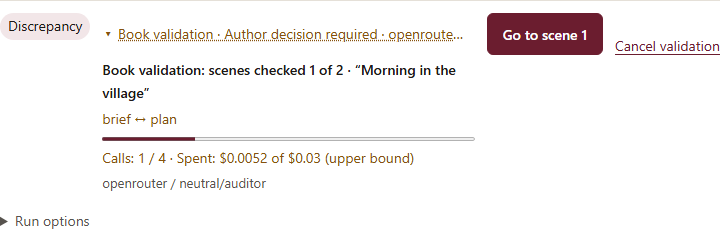
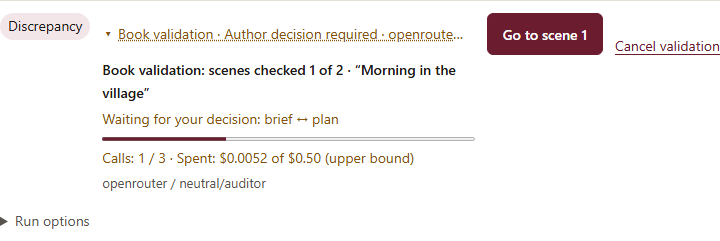
fix(validation): зупинена перевірка чекає автора й завершується без згоди
Відгук власника після #296: перевірка сцени зупинилася на розбіжності
завдання, прозу затверджено вручну, а «Продовжити» лишалася активною з
діалогом «До 0 викликів», і смуга стояла на 1 / 2.

- Перегляд продовження audit має awaiting_decision за правилом execute;
  «Продовжити» неактивна з причиною, рядок пише «Чекає вашого рішення» /
  «Чекає вашої дії».
- Без зв'язків до перевірки кнопка «Завершити перевірку» завершує запуск
  без діалогу згоди.
- Прогрес needs_review рахує лише залишок (done + виклики перегляду
  продовження), збережений план не змінюється.

Документація: SPEC.MD (VALID-RUN-S13, прогрес і продовження, обмеження),
traceability, manual.md, сайт uk/en workspace і troubleshooting (пари
підтверджено check_site --rehash), знімок run-progress-desktop uk/en.

diff --git a/src/storygen/web/static/runs.js b/src/storygen/web/static/runs.js
@@ -9,7 +9,7 @@ import {api,json,notice} from './api.js';
 import {state,refresh,loadBuffer,textEditor} from './editor.js';
 import {registerWorkspaceCommand} from './workspace-commands.js';
 import {assertReadyDispatch} from './workspace-state.js';
-import {operationReason,confirmationText,runKind,controlReason,materialReason,editorLoopOperation} from './run-readiness.js';
+import {operationReason,confirmationText,runKind,controlReason,materialReason,editorLoopOperation,auditResumeReason,auditFinishable} from './run-readiness.js';
 // STORE-FOOTER: the Store page has no extra actions; their buttons then live in a detached node.
 const controls=document.querySelector('#generation-controls')||document.createElement('div'),status=document.querySelector('#run-status'),live=document.querySelector('#live-text');
 // R20-WORKSPACE: «Текст, що пише модель» opens while a stage runs and closes once its text is in.
@@ -41,7 +41,7 @@ async function reconcilePrimaryOnce(){
   if(pending.storageKey)sessionStorage.removeItem(pending.storageKey);setPendingPrimary(null);document.dispatchEvent(new CustomEvent('workspace-primary-recovered',{detail:run}));await follow(run,{reveal:true});return run;
 }
 const actions=[];
-function updateControls(){for(const item of actions){let reason=item.operation?operationReason(state,readiness?.operations[item.operation]):['latest','proposal','apply'].includes(item.action)?materialReason(item.action,state,historyRuns):item.action==='accepted'?operationReason(state,{ready:!!continuation,reason:t("m_7795d03d9c33")}):item.action?controlReason(item.action,active):'';if(['resume','repeat'].includes(item.action))reason=reason||operationReason(state,pendingReadiness);if(item.busy)reason=t("m_08ee1e43995d");item.button.disabled=!!reason;uiText(item.button,"title",()=>(diagnostic(reason)));uiText(item.hint,"textContent",()=>(diagnostic(reason)));item.button.setAttribute('aria-describedby',item.hint.id);if(['pause','cancel','resume','repeat','accepted'].includes(item.action))item.wrapper.hidden=['resume','repeat'].includes(item.action)?!!controlReason(item.action,active):!!reason;if(item.action==='resume'&&!bookResumeInRow(active,state.view?.scenes))item.wrapper.hidden=true}}
+function updateControls(){for(const item of actions){let reason=item.operation?operationReason(state,readiness?.operations[item.operation]):['latest','proposal','apply'].includes(item.action)?materialReason(item.action,state,historyRuns):item.action==='accepted'?operationReason(state,{ready:!!continuation,reason:t("m_7795d03d9c33")}):item.action?controlReason(item.action,active):'';if(['resume','repeat'].includes(item.action))reason=reason||operationReason(state,pendingReadiness)||auditResumeReason(pendingReadiness);if(item.action==='resume')uiText(item.button,"textContent",()=>(auditFinishable(pendingReadiness)?t('audit.finish'):t("m_a50d268827d2")));if(item.busy)reason=t("m_08ee1e43995d");item.button.disabled=!!reason;uiText(item.button,"title",()=>(diagnostic(reason)));uiText(item.hint,"textContent",()=>(diagnostic(reason)));item.button.setAttribute('aria-describedby',item.hint.id);if(['pause','cancel','resume','repeat','accepted'].includes(item.action))item.wrapper.hidden=['resume','repeat'].includes(item.action)?!!controlReason(item.action,active):!!reason;if(item.action==='resume'&&!bookResumeInRow(active,state.view?.scenes))item.wrapper.hidden=true}}
 async function loadPending(){
   const epoch=++pendingEpoch;pendingReadiness=null;continuation=null;updateControls();if(!active)return;
   const runId=active.id;
@@ -53,7 +53,8 @@ async function loadPending(){
       const history=await api(`/api/scenes/${task.scene_id}/versions`);
       candidate=acceptedContinuation(details.run,details.attempts,history.scene,history.versions,history.acceptances||[]);
     }
-    if(epoch===pendingEpoch){pendingReadiness=result;continuation=candidate;updateControls()}
+    // VALID-RUN-S16: the author's decisions since the stop change what is left, so the progress is read again with the preview.
+    if(epoch===pendingEpoch){pendingReadiness=result;continuation=candidate;if(active?.id===runId&&'progress' in details){setProgress(runId,details.progress);if(progressNode?.isConnected)fillProgress(progressNode,active,details.progress)}updateControls()}
   }catch(error){if(epoch===pendingEpoch){pendingReadiness={ready:false,reason:error.message};updateControls()}}
 }
 function selectedSource(options={}){
@@ -249,7 +250,7 @@ button(liveLabel(()=>(t("m_3f2da413a47a"))),()=>start('scene'),'scene');button(l
 const pauseLabel=document.createElement('label');uiHTML(pauseLabel,"<input id=\"pause-each\" type=\"checkbox\"> <span data-i18n=\"m_991c0d0700bb\">Пауза після кожного етапу</span>",{});controls.append(pauseLabel);
 button(liveLabel(()=>(t("m_03498e395a43"))),async()=>{if(active)draw(await api(`/api/runs/${active.id}/pause`,json('POST',{})))},null,'pause');
 button(liveLabel(()=>(t("m_8b4c2025378a"))),async()=>{if(active)draw(await api(`/api/runs/${active.id}/cancel`,json('POST',{})))},null,'cancel');cancelItem=actions.at(-1);
-async function resumeRun(repeat){if(!active)return;const runId=active.id,captured={sceneId:state.scene?.id,epoch:state.bufferEpoch,mode:state.mode};await loadPending();const reason=operationReason(state,pendingReadiness);if(reason)throw new Error(reason);const shown=confirmationText(pendingReadiness);if(!await confirmDialog((repeat?t("m_f126caaa8d97"):'')+shown))return;if(active?.id!==runId||state.scene?.id!==captured.sceneId||state.bufferEpoch!==captured.epoch||state.mode!==captured.mode||state.dirty||state.saving)return;await loadPending();if(active?.id!==runId||operationReason(state,pendingReadiness)||confirmationText(pendingReadiness)!==shown)return;await follow(await api(`/api/runs/${runId}/resume`,json('POST',{repeat_interrupted:repeat})),{reveal:true})}
+async function resumeRun(repeat){if(!active)return;const runId=active.id,captured={sceneId:state.scene?.id,epoch:state.bufferEpoch,mode:state.mode};await loadPending();const reason=operationReason(state,pendingReadiness)||auditResumeReason(pendingReadiness);if(reason)throw new Error(reason);const shown=confirmationText(pendingReadiness),finish=!repeat&&auditFinishable(pendingReadiness);/* nothing left to check: no call and no cost, so no consent */if(!finish&&!await confirmDialog((repeat?t("m_f126caaa8d97"):'')+shown))return;if(active?.id!==runId||state.scene?.id!==captured.sceneId||state.bufferEpoch!==captured.epoch||state.mode!==captured.mode||state.dirty||state.saving)return;await loadPending();if(active?.id!==runId||operationReason(state,pendingReadiness)||confirmationText(pendingReadiness)!==shown)return;await follow(await api(`/api/runs/${runId}/resume`,json('POST',{repeat_interrupted:repeat})),{reveal:true})}
 button(liveLabel(()=>(t("m_387c0a3209b9"))),async()=>{
   await loadPending();
   const reason=operationReason(state,{ready:!!continuation,reason:t("m_46e01b57161e")});if(reason)throw new Error(reason);

diff --git a/src/storygen/web/static/run-progress.js b/src/storygen/web/static/run-progress.js
@@ -32,13 +32,24 @@ function countsOf(progress){
   return parts.join(' · ');
 }
 
+// A run stopped for the author (VALID-RUN-S16) names the link it waits for, or that the check can be finished.
+function stepOf(run,progress){
+  if(run?.request?.mode!=='audit')return '';
+  // A discrepancy waits for the author's decision; an unavailable link waits for an action (e.g. building the memory).
+  const waiting=progress.awaiting?.link;
+  if(LINKS.has(waiting))return t(progress.awaiting.status==='discrepancy'?'run_progress.awaiting':'run_progress.awaiting_action',{p0:t(`run_progress.link_${waiting}`)});
+  if(progress.finishable===true)return t('run_progress.finishable');
+  const link=progress.step?.link;
+  return LINKS.has(link)?t(`run_progress.link_${link}`):'';
+}
+
 // null when the server sent no progress (memory_carry, an old run). fraction is null while the call plan is open.
 export function progressText(run,progress,scenes){
   if(progress==null)return null;
-  const link=progress.step?.link,done=progress.calls?.done,planned=progress.calls?.planned;
+  const done=progress.calls?.done,planned=progress.calls?.planned;
   return {
     title:titleOf(run,progress,scenes),
-    step:run?.request?.mode==='audit'&&LINKS.has(link)?t(`run_progress.link_${link}`):'',
+    step:stepOf(run,progress),
     counts:countsOf(progress),
     fraction:Number.isFinite(done)&&Number.isFinite(planned)&&planned>0?Math.min(1,Math.max(0,done/planned)):null};
 }

diff --git a/src/storygen/web/static/run-readiness.js b/src/storygen/web/static/run-readiness.js
@@ -29,6 +29,16 @@ export function auditConfirmationText(operation){
     t('audit.confirm_start')];
   return lines.filter(Boolean).join('\n');
 }
+// VALID-RUN-S16: a stopped audit run whose first link awaits the author stops again at once on resume, so resume is
+// blocked with that link; with nothing left to check the run is finished (no call, so no consent dialog).
+const isAudit=operation=>!!operation&&('plan_fingerprint' in operation||!!operation.roles?.auditor);
+export function auditResumeReason(operation){
+  const link=isAudit(operation)?operation.awaiting_decision?.link:null;
+  return link?t('audit.resume_decide_first',{p0:t('run_progress.link_'+link)}):'';
+}
+export function auditFinishable(operation){
+  return isAudit(operation)&&!!operation.ready&&Array.isArray(operation.links)&&operation.links.length===0;
+}
 export function confirmationText(operation){
   if('plan_fingerprint' in operation||operation.roles?.auditor)return auditConfirmationText(operation);
   const roles=Object.entries(operation.roles).map(([role,c])=>`${role}: ${c.provider} / ${c.model}`);

diff --git a/tests/generation/test_run_progress.py b/tests/generation/test_run_progress.py
@@ -297,3 +297,68 @@ def test_resume_reads_only_the_progress_events(tmp_path, monkeypatch):
     monkeypatch.setattr(repo, 'list_run_events', lambda run_id, after_seq=0, types=None: seen.append(types) or original(run_id, after_seq, types))
     worker.resume(run.id)
     assert seen and all(types == PROGRESS_EVENTS for types in seen)
+
+
+def _stopped_scene_check(tmp_path):
+    """The owner's case: a scene check stops on a brief discrepancy, then the author approves prose by hand."""
+    from storygen.storage.links import link_state
+    from tests.generation.test_audit_run import DISCREPANCY, decide_link, start
+    from tests.generation.test_audit_verdict import unchecked_scene
+    repo, story, (scene,) = unchecked_scene(tmp_path)
+    worker, run = start(repo, story, scene, Answers(DISCREPANCY))
+    assert run.planned_telemetry['calls'] == 2
+    run = drive(worker, run.id)
+    assert run.state == 'needs_review' and run.checkpoint['link'] == 'brief'
+    prose = link_state(repo.context_view(story.id), scene.id, 'prose')
+    decide_link(repo, scene.id, 'prose', 'approve', prose.fingerprint)
+    return repo, story, scene, worker, run
+
+
+def test_resume_preview_names_the_link_awaiting_the_author(tmp_path):
+    from storygen.storage.links import link_state
+    from tests.generation.test_audit_run import decide_link
+    repo, story, scene, worker, run = _stopped_scene_check(tmp_path)
+    preview = worker.run_readiness(run.id)
+    assert preview['ready'] is True and preview['calls'] == 0  # resume itself stays allowed (VALID-RUN-S03)
+    assert preview['awaiting_decision'] == {'scene_id': scene.id, 'link': 'brief', 'status': 'discrepancy'}
+    brief = link_state(repo.context_view(story.id), scene.id, 'brief')
+    decide_link(repo, scene.id, 'brief', 'approve', brief.fingerprint)
+    preview = worker.run_readiness(run.id)
+    assert preview['awaiting_decision'] is None and preview['links'] == []
+
+
+def test_resume_preview_of_a_called_link_awaits_nothing(tmp_path):
+    from storygen.storage.links import link_state
+    from tests.generation.test_audit_run import DISCREPANCY, decide_link, start
+    from tests.generation.test_audit_verdict import unchecked_scene
+    repo, story, (scene,) = unchecked_scene(tmp_path)
+    worker, run = start(repo, story, scene, Answers(DISCREPANCY))
+    run = drive(worker, run.id)
+    brief = link_state(repo.context_view(story.id), scene.id, 'brief')
+    decide_link(repo, scene.id, 'brief', 'approve', brief.fingerprint)
+    preview = worker.run_readiness(run.id)
+    assert preview['calls'] == 1 and preview['awaiting_decision'] is None
+
+
+def test_stopped_progress_plans_only_what_is_left(tmp_path):
+    from storygen.storage.links import link_state
+    from tests.generation.test_audit_run import decide_link
+    repo, story, scene, worker, run = _stopped_scene_check(tmp_path)
+    progress = run_progress(repo, repo.get_run(run.id))
+    assert progress['calls'] == {'done': 1, 'planned': 1}  # prose was approved by hand: no second call is left
+    assert progress['awaiting'] == {'scene_id': scene.id, 'link': 'brief', 'status': 'discrepancy'}
+    assert progress['finishable'] is False
+    assert repo.get_run(run.id).planned_telemetry['calls'] == 2  # the stored plan is not rewritten
+    brief = link_state(repo.context_view(story.id), scene.id, 'brief')
+    decide_link(repo, scene.id, 'brief', 'approve', brief.fingerprint)
+    progress = run_progress(repo, repo.get_run(run.id))
+    assert progress['awaiting'] is None and progress['finishable'] is True
+    assert progress['calls'] == {'done': 1, 'planned': 1}
+
+
+def test_running_progress_has_no_decision_fields(tmp_path):
+    from tests.generation.test_audit_run import request as audit_request
+    repo, story, (s1, s2, s3, s4), _ = four_scenes(tmp_path)
+    run = Run(id='r', story_id=story.id, request_id='q', tasks=[], request=audit_request(story, s3))
+    progress = progress_from_events(run, [])
+    assert progress['awaiting'] is None and progress['finishable'] is False

diff --git a/tests/web/browser/server.py b/tests/web/browser/server.py
@@ -477,8 +477,9 @@ def main():
             return dict(story_id=story.id,first_id=first.id,second_id=second.id)
 
         @app.post('/test-scene-audit')
-        def scene_audit_fixture():
-            """A scene with an unchecked brief and prose and an auditor of its own (synthetic, local: no budget)."""
+        def scene_audit_fixture(memory: bool = False):
+            """A scene with an unchecked brief and prose and an auditor of its own (synthetic, local: no budget).
+            `memory` adds the scene's memory, so its memory link is valid instead of unavailable."""
             import json
             from storygen.authoring.blueprints import save_role_settings
             from storygen.generation.dependencies import save_manual_prose
@@ -490,7 +491,13 @@ def main():
             brief=json.dumps({'objective':'Світло на воді','beats':['Маяк'],'constraints':[],'proposed_changes':[]},ensure_ascii=False)
             ref=repo.save_version(story.id,scene.id,'brief',brief,[])
             repo.set_head(scene.id,'brief',ref.id,repo.get_scene(scene.id).revision)
-            save_manual_prose(repo,scene.id,'Ранок: світло на воді.',repo.get_scene(scene.id).revision)
+            prose=save_manual_prose(repo,scene.id,'Ранок: світло на воді.',repo.get_scene(scene.id).revision)
+            if memory:
+                from storygen.memory.journal import MemoryJournal, _add_event
+                from storygen.memory.service import save_scene_memory
+                event=_add_event('facts','Світло на воді',prose.id,'світло на воді',0)
+                journal=MemoryJournal(source_prose_ids=[prose.id],events=[event])
+                save_scene_memory(repo,scene.id,journal.model_dump_json(),repo.get_scene(scene.id).revision)
             return dict(story_id=story.id,scene_id=scene.id)
 
         @app.post('/test-book-validation')

diff --git a/src/storygen/generation/audit_run.py b/src/storygen/generation/audit_run.py
@@ -87,7 +87,9 @@ def plan_fingerprint(scope, scene_id, entries, settings) -> str:
 
 def readiness(repo, request, view=None, resume=False) -> dict:
     """Read-only preflight of an audit run. `resume`: a stopped run whose last link the author has just decided may
-    continue with nothing left to check — it then completes without a call."""
+    continue with nothing left to check — it then completes without a call. The resume preview also names
+    `awaiting_decision` {scene_id, link, status}: the first link the run visits that stops it again without a call
+    (the same rule as `execute`), so resuming now changes nothing until the author decides it; `None` otherwise."""
     from ..authoring.blueprints import get_role_settings
     from ..providers.policy import request_rating
     from ..rating.guard import enforce_edition_limit
@@ -101,6 +103,8 @@ def readiness(repo, request, view=None, resume=False) -> dict:
               'plan_fingerprint': None, 'cost': empty()}
     if book:
         result['invalid_scenes'] = 0
+    if resume:
+        result['awaiting_decision'] = None
     try:
         story = repo.get_story(request.story_id)
         if view is None:
@@ -119,6 +123,11 @@ def readiness(repo, request, view=None, resume=False) -> dict:
                            for scene_id, link in pending]
         if book:
             result['invalid_scenes'] = len(states)  # the scenes the run visits
+        if resume:
+            first = pending[0] if pending else None
+            result['awaiting_decision'] = None if first is None or _will_call(
+                repo, view, first[0], first[1], states[first[0]][first[1]]) else {
+                'scene_id': first[0], 'link': first[1], 'status': states[first[0]][first[1]].status}
         if not pending and not resume:
             if book:
                 raise ValueError(BOOK_VALID)

diff --git a/src/storygen/generation/run_progress.py b/src/storygen/generation/run_progress.py
@@ -93,11 +93,38 @@ def progress_from_events(run, events):
         'scene': scene,
         'step': step,
         'stopped': _stopped(run),
+        'awaiting': None,
+        'finishable': False,
     }
 
 
+def _left(progress, plan, readiness):
+    """Calls and bound of a run stopped for the author: what was done plus what the resume preview still has to call."""
+    left = dict(progress)
+    left['calls'] = {'done': progress['calls']['done'], 'planned': progress['calls']['done'] + readiness['calls']}
+    if 'cost_bound_usd' in plan:
+        total = (readiness.get('cost') or {}).get('total_usd')
+        if progress['spent_known'] and total is not None:
+            bound = Decimal(progress['spent_usd']) + Decimal(str(total))
+            left['bound_usd'] = str(bound.quantize(_CENT, rounding=ROUND_CEILING))
+        else:
+            left['bound_usd'] = None
+    return left
+
+
 def run_progress(repo, run):
-    return progress_from_events(run, repo.list_run_events(run.id, types=PROGRESS_EVENTS))
+    progress = progress_from_events(run, repo.list_run_events(run.id, types=PROGRESS_EVENTS))
+    if progress is None or run.request.mode != 'audit' or run.state != 'needs_review':
+        return progress
+    # A run stopped for the author's decision shows what is left now: the author's decisions and edits since the stop
+    # change the set of links, and the stored plan is extended only on resume (extend_plan).
+    from .audit_run import readiness as audit_readiness
+    preview = audit_readiness(repo, run.request, resume=True)
+    progress['awaiting'] = preview.get('awaiting_decision')
+    if preview['ready']:
+        progress['finishable'] = not preview['links']
+        progress = _left(progress, run.planned_telemetry or {}, preview)
+    return progress
 
 
 def emit_progress(coordinator, run_id):

diff --git a/tests/web/test_run_progress_ui.py b/tests/web/test_run_progress_ui.py
@@ -28,7 +28,9 @@ def test_run_progress_texts_exist_in_both_languages():
             'run_progress.stage_evaluate', 'run_progress.calls', 'run_progress.calls_open', 'run_progress.spent_bound',
             'run_progress.spent', 'run_progress.stage_prepare', 'run_progress.stage_rewrite', 'run_progress.stage_classify',
             'run_progress.stage_publication_suggest', 'run_progress.stage_timeline_summary', 'book_validation.other_run_active',
-            'book_validation.menu_running', 'book_validation.menu_stopped', 'book_validation.cancel']
+            'book_validation.menu_running', 'book_validation.menu_stopped', 'book_validation.cancel',
+            'run_progress.awaiting', 'run_progress.awaiting_action', 'run_progress.finishable', 'audit.resume_decide_first',
+            'audit.finish']
     for locale in ('uk', 'en'):
         missing = [key for key in keys if not catalogs[locale].get(key)]
         assert missing == [], (locale, missing)

diff --git a/SPEC.MD b/SPEC.MD
@@ -7677,7 +7677,9 @@ POST /api/scenes/{id}/brief приймає необов’язковий `source
 
 **Прогрес запуску.** `generation/run_progress.py::run_progress(repo, run)` обчислює словник `progress` лише з подій `stage_started`, `stage_finished`, `audit_step` (`repo.list_run_events(run_id, types=PROGRESS_EVENTS)`, Р8: подій `delta` не читають) і збереженого запуску: `calls {done, planned}` — число різних `attempt_id` серед `stage_finished` (подія без `attempt_id` має позиційний ключ; повтор потоку виклик не подвоює), `planned` — `planned_telemetry.calls`; `spent_usd` — сума цін цих викликів (`usage.cost` число або `usage.cost.usd`, скінченне) рядком із 4 знаками, `ROUND_HALF_UP`; `spent_known` — `false`, якщо хоч один виклик, окрім `failed`, не має придатної ціни (`state='completed'`, `cancelled` або давня подія без `state`); виклик зі `state='failed'` без ціни (зокрема з порожнім `usage`) додає $0 і не робить суму невідомою, але рахується в `done`, бо його здійснено (Final(core), рішення 1: такий виклик не оплачено; ціна, якщо вона є, додається як є). Скасований виклик без ціни — невідомий, не $0: нестримінговий виклик провайдер оплачує повністю, а `_settle_late` записує стягнення пізніше лише в облік витрат (billing), не в `usage` події. Усунене відхилення: `UNBILLED_STATES` містив `cancelled`, тож такий виклик помилково додавав $0 і «Витрачено» виглядало точним. Після продовження невідома сума дає `cost_bound_usd=null` (`extend_plan`), а рядок показує «$—» без помилки. Рядок читає серверний прогрес, а не JS-облік `addRunCost`, тож правила не мусять збігатися; `bound_usd` — `planned_telemetry.cost_bound_usd`; `scene {id, index, total}` — для перевірки сцени «1 з 1», для валідації книги `id` — `scene_id` останньої події `stage_started` чи `audit_step` із `scene_id` (повернення до сцени A після B дає A; усунене відхилення: `id` брали з останнього елемента списку першого відвідування), `index` — число різних відвіданих сцен, `total` — `planned_telemetry.scenes`, для генерації — сцена курсора й її місце серед сцен завдань запуску; `step` — для перевірки останній `link` (`brief`, `prose`, `memory`), для генерації `{stage}` завдання курсора; `stopped {scene_id, link, outcome}` лише для `needs_review` із checkpoint. Для `memory_carry` прогресу немає (`null`). `stage_finished` конвеєра сцени (`generation/pipeline.py::generate_scene`) і перебудови пам'яті (`memory/service.py::rebuild_memory`) теж несе `usage` спроби (Г10, паритет з етапами worker), тож їхні виклики входять у `spent_usd` і витрати рядка запуску за тими самими правилами. Усунене відхилення: ці події були без `usage`, і завершений виклик рахувався б як виклик без ціни (`spent_known: false`). Зараз worker ці функції не викликає (викликачі є лише в тестах), тож рядок запуску автора від цього не змінюється. Форма однакова в `GET /api/runs/{id}` (ключ `progress` поруч із `run`, `attempts`, `partial`) і в події `progress {…}`, яку `RunCoordinator.event` додає після кожної `stage_started`, `stage_finished` і `audit_step` з однієї точки (Р6 — навмисне розширення: рядок називає поточний зв'язок чи етап уже під час виклику, не лише після нього). Обчислення прогресу ізольоване: помилку записано в журнал, вона ніколи не провалює етап чи запуск; `GET /api/runs/{id}` тоді віддає `progress: null`, а `resume` лишає план без змін.
 
-**Продовження й відновлення.** Після рішення автора — `POST /api/runs/{id}/resume`; `pending_preview` (`readiness(resume=True)`) дозволяє продовження без зв'язків до перевірки, і запуск завершується без виклику. Збій чи перерваний запуск продовжується лише явним повтором (`repeat_interrupted`), бо спроби `audit_*` рахуються спробами завдання. Завдання запуску книги сцени не має, тож його спробами вважаються спроби `audit_*` будь-якої сцени з тим самим cursor (`RunCoordinator.resume`): збій на будь-якій сцені книги теж вимагає явного повтору. Це модельний запуск: після рестарту він `interrupted`.
+**Прогрес зупиненої перевірки** (VALID-RUN-S13). Словник `progress` завжди має `awaiting` (`null`) і `finishable` (`false`). Для запуску `audit` у `needs_review` `run_progress` (не чиста `progress_from_events`) додатково читає перегляд продовження `audit_run.readiness(resume=True)`: `awaiting` — його `awaiting_decision`; коли перегляд готовий, `finishable` — `links` порожній, `calls.planned` = `done` + `calls` перегляду, а `bound_usd` (лише якщо план має ключ `cost_bound_usd`) = витрачено + `cost.total_usd` перегляду з `ROUND_CEILING` або `null`, коли суму не знано. Збережений `planned_telemetry` не змінюється: план доповнює лише продовження (`extend_plan`). Так рішення й правки автора після зупинки одразу видно на смузі. Усунене відхилення: після зупинки на розбіжності завдання й ручного затвердження прози рядок показував «Викликів: 1 / 2» і межу $0.24 за планом, якого вже не було. Рядок запуску (`static/run-progress.js`) замість поточного зв'язку пише «Чекає вашого рішення: {зв'язок}» для `awaiting.status='discrepancy'`, «Чекає вашої дії: {зв'язок}» для недоступного зв'язку (наприклад, без пам'яті) і «Усе вирішено: перевірку можна завершити» за `finishable`. `runs.js` після кожного перегляду продовження (`loadPending`, зокрема на `story-refreshed` після рішення в панелі) бере `progress` з того самого `GET /api/runs/{id}` і перемальовує рядок.
+
+**Продовження й відновлення.** Після рішення автора — `POST /api/runs/{id}/resume`; `pending_preview` (`readiness(resume=True)`) дозволяє продовження без зв'язків до перевірки, і запуск завершується без виклику. Перегляд продовження має ключ `awaiting_decision {scene_id, link, status}`: перший зв'язок, який відвідає запуск, якщо він зупинить запуск знову без виклику за тим самим правилом, що й `execute` (`not _will_call`: `discrepancy`, власний `unavailable` стану зв'язку або висновок `unavailable`, чия причина досі діє); інакше `null`. Сервер продовження не забороняє (VALID-RUN-S03 чинний: без рішення запуск знову зупиняється без виклику), але інтерфейс (`static/run-readiness.js::auditResumeReason`) робить «Продовжити» в рядку запуску неактивною з причиною «Спершу вирішіть зв’язок «{зв'язок}» у панелі «Узгодженість сцени»», а `resumeRun` з тією самою причиною відмовляє й для «Продовжити валідацію» панелі. Перегляд продовження, готовий і з порожнім `links` (`auditFinishable`), перейменовує кнопку на «Завершити перевірку», і `resumeRun` продовжує без діалогу згоди: виклику й витрат немає, запуск лише завершується. Повтор (`repeat_interrupted`) діалог зберігає. Усунене відхилення: зупинена на нерозв'язаній розбіжності перевірка пропонувала активну «Продовжити» з діалогом «До 0 викликів… $0.0000», після якого нічого не змінювалося. Збій чи перерваний запуск продовжується лише явним повтором (`repeat_interrupted`), бо спроби `audit_*` рахуються спробами завдання. Завдання запуску книги сцени не має, тож його спробами вважаються спроби `audit_*` будь-якої сцени з тим самим cursor (`RunCoordinator.resume`): збій на будь-якій сцені книги теж вимагає явного повтору. Це модельний запуск: після рестарту він `interrupted`.
 
 **Інтерфейс перевірки сцени.** Кнопка «Перевірити Ревізором» (`#scene-consistency-primary`) — головна дія панелі «Узгодженість сцени» ([VALID-LINKS](#valid-links)) у всіх виданнях; панель видна за правилами вигляду VALID-LINKS (валідна сцена — лише «Сцена узгоджена ✓» без кнопки). Поруч кнопка показує «Викликів: N, до $X» (межу округлено вгору, не вниз) з перегляду сцени, який панель читає сама за ключем стану зв'язків (Г7), і неактивна з причиною: перегляд не готовий, `calls == 0` («Ревізору нема що перевіряти: вирішіть зв'язки вручну»), незбережені зміни чи інший активний запуск. Усунене відхилення: кнопка «Перевірити сцену» була активна й тоді, коли кожен зв'язок чекав рішення автора, і запуск зупинявся на чинній розбіжності з 0 викликів. Кнопка запускає `invokeWorkspaceCommand('run', {mode: 'audit', audit_scope: 'scene'})`: перегляд береться з `POST …/audit/preview {scope: 'scene', scene_id}` (`runs.js::start`), запуск несе його `audit_plan_fingerprint`, а згода — `confirmDialog`. Текст згоди спільний для перевірки сцени, валідації книги й продовження (`run-readiness.js::auditConfirmationText`; `confirmationText` делегує йому, коли відповідь має `plan_fingerprint` або роль `auditor`): «Зв’язки до перевірки: завдання, проза, пам’ять.» (для книги — кількість сцен, [VALID-UI](#valid-ui)), «До N викликів Ревізора (provider / model).», «Вартість: до $X (верхня межа).» з `total_usd` як є, без множення `per_call_usd`, а без суми — «Суму не пораховано: {причина}»; для локального Ревізора рядка USD немає. Далі застереження про верхню межу («Кількість викликів — верхня межа, лише поки сцену не змінюють…»), попередження й «Запустити перевірку?». Продовження перевірки сцени — «Продовжити» в рядку запуску; продовження валідації книги — «Продовжити валідацію» в панелі сцени зупинки ([VALID-UI](#valid-ui)). Підсумок запуску називає режим «Перевірка сцени» або «Валідація книги» (`run-summary.js::runModeKey`), посилання налаштувань веде до ролі `auditor` (`roles.js::runSettingsRole`); відмова перегляду до запуску показує «Налаштувати Ревізора» (`roles.js::operationRole`: режим `audit` → `auditor`, як `edit_loop` → `editor`). План запуску в рядку стану — «План: {модель} · до N викл.» (`workspace.run_plan_audit`) без матеріалу входу, бо перевірка читає зв'язки, а не один матеріал. Меню «Валідація книги» описує [VALID-UI](#valid-ui), а `start_run(action='audit')` — [MCP-BRIDGE](#mcp-bridge). Ліміт бюджету й резерв діють як для інших запусків.
 
@@ -7696,6 +7698,8 @@ POST /api/scenes/{id}/brief приймає необов’язковий `source
 - Для перевірки сцени відповідь 409 «План перевірки змінився…» показується лише повідомленням, без дії «Переглянути знову»: автор натискає «Перевірити Ревізором» ще раз.
 - Виклики оцінювача не входять у `calls.done` і `spent_usd`: оцінювання пише `evaluation_finished`, а не `stage_finished`, тож запуск сцени чи «решти» з оцінюванням може закінчитися з `done` < `planned`.
 - Повторна згода при продовженні — це UI-діалог `confirmDialog` без прив'язки до відбитка плану й суми (давня властивість, прогресом не змінена): продовження читає свіжий перегляд, а план доповнюється його значеннями.
+- Прогрес зупиненої перевірки (`needs_review`) на кожному читанні будує перегляд продовження, для валідації книги — по всій книзі, з побудовою контексту для недоступних висновків; кешу немає.
+- «Продовжити валідацію» в панелі вирішує неактивність за власним правилом сцени зупинки (зв'язок checkpoint), а не за `awaiting_decision`: якщо після правок запуск книги зупинився б на іншій сцені, причину покаже повідомлення після натискання. «Завершити перевірку» з'являється лише в рядку запуску; кнопка панелі лишає назву «Продовжити валідацію», хоча діалогу згоди за порожнього перегляду теж не показує.
 - Прогрес читає до трьох разів на крок (по одному читанню на кожну з подій `stage_started`, `stage_finished`, `audit_step`, Р6, Р8): кожне читання переглядає рядки подій запуску з фільтром за типом (JSON інших подій не розбирається) і не кешується між кроками, тож вартість кроку росте з числом подій запуску.
 - Невдалий виклик без ціни вважається неоплаченим ($0): якщо провайдер усе ж стягнув за нього плату, не повернувши її в `usage`, «Витрачено» її не врахує. Скасований виклик без ціни такого припущення не отримує: сума стає невідомою.
 
@@ -7790,6 +7794,14 @@ POST /api/scenes/{id}/brief приймає необов’язковий `source
 - THEN `progress` рахує виклики `n / N` за різними `attempt_id`, витрачено (завершений чи скасований виклик без ціни робить суму невідомою, а невдалий без ціни додає $0), сцену й зв'язок або етап, а для `needs_review` — зупинку
 - AND подія `progress` з'являється після кожної `stage_started`, `stage_finished` і `audit_step`, а помилка обчислення не провалює ні запуск, ні `GET /api/runs/{id}` (тоді `progress: null`), ні продовження (план лишається)
 - AND перенос пам'яті прогресу не має, а генерація називає сцену й етап курсора.
+
+<a id="valid-run-s13"></a>
+#### Scenario: VALID-RUN-S13 — Зупинена перевірка чекає автора й завершується без згоди
+- GIVEN перевірка сцени з планом на 2 виклики, зупинена на розбіжності завдання, після чого автор вручну затвердив прозу
+- WHEN перегляд продовження і `GET /api/runs/{id}` читають запуск, а рядок запуску показує його
+- THEN `awaiting_decision` і `progress.awaiting` називають зв'язок завдання, `progress.calls` — «1 / 1», рядок пише «Чекає вашого рішення: завдання ↔ план», а «Продовжити» неактивна з причиною, що називає цей зв'язок; недоступна пам'ять дає «Чекає вашої дії: пам'ять ↔ проза»
+- AND після рішення щодо завдання `awaiting` порожній, `finishable` істинний, рядок пише «Усе вирішено: перевірку можна завершити», а «Завершити перевірку» завершує запуск без діалогу згоди й без виклику
+- AND збережений план запуску не змінюється, а сервер і далі приймає продовження без рішення (VALID-RUN-S03).
 
 <a id="valid-ui"></a>
 ### Requirement: VALID-UI — Валідація книги в меню твору

diff --git a/docs/verification/manual.md b/docs/verification/manual.md
@@ -558,7 +558,7 @@ VALID-CARDS-S04, VALID-CARDS-S05. Автоматична частина — Play
 <a id="scene-audit-browser"></a>
 ## Перевірка сцени Ревізором
 
-VALID-AUDITOR-S01, VALID-AUDITOR-S07, VALID-LINKS-S15, VALID-RUN-S01, VALID-RUN-S02. Автоматична частина — Playwright `tests/web/browser/scene-audit.spec.mjs` (desktop і mobile) на synthetic server `tests/web/browser/server.py`; фікстура `/test-scene-audit` має власного локального Ревізора `synthetic-auditor`, а фейковий шлюз відповідає на етапи `audit_*` двома розбіжностями з цитатами (упевненість 35):
+VALID-AUDITOR-S01, VALID-AUDITOR-S07, VALID-LINKS-S15, VALID-RUN-S01, VALID-RUN-S02, VALID-RUN-S13. Автоматична частина — Playwright `tests/web/browser/scene-audit.spec.mjs` (desktop і mobile) на synthetic server `tests/web/browser/server.py`; фікстура `/test-scene-audit` має власного локального Ревізора `synthetic-auditor`, а фейковий шлюз відповідає на етапи `audit_*` двома розбіжностями з цитатами (упевненість 35):
 1. Валідна сцена фікстури `/test-card-invalidation`: бейдж «Валідна», панель — один рядок «Сцена узгоджена ✓» без `#scene-consistency-primary` і без колишнього `#audit-scene`.
 2. Сцена фікстури `/test-scene-audit` (перегляд — 2 виклики): поки перегляду немає, «Перевірити Ревізором» неактивна; перегляд, що прийшов, коли фокус на «Я перевірив сам», фокуса не забирає, а поруч з'являється «2 викл.» (локальний Ревізор без ціни). Кнопка — не `secondary`, має `aria-describedby="scene-consistency-reason"` і тримає фокус після `story-refreshed`. Діалог показує «Зв’язки до перевірки: завдання, проза…» і модель `synthetic-auditor`; «Скасувати» не створює запуску. «Я перевірив сам» для завдання зменшує ціну до «1 викл.», а діалог — «Зв’язки до перевірки: проза». Після «Підтвердити» запуск `audit` стає `needs_review` з checkpoint на `prose`; рядок прози в стані `discrepancy` показує «Ревізор: можлива розбіжність (упевненість у відповідності — 35%)», підсумок «Завдання може розходитися з планом», «Пояснення моделі бувають неточні», дві розбіжності з цитатами в `blockquote`. Рядок прогресу — «Перевірка сцени «…»», «Викликів: n / N» і модель без «Невідомо». «Розбіжності немає» робить рядок `ok`, а З2 — валідним з джерелом `author`. Запуск несе `audit_plan_fingerprint` із перегляду (64 hex).
 3. Причина неактивності: завдання затверджене, проза зупинена на розбіжності, перегляд — 0 викликів. Причина — «Ревізору нема що перевіряти: вирішіть зв’язки вручну», кнопка неактивна; набір тексту в редакторі змінює причину на «Спершу збережіть ручні правки», не перебудовуючи рядків (вузол рядка лишається в DOM), а сама панель не має `aria-live`.
@@ -566,6 +566,8 @@ VALID-AUDITOR-S01, VALID-AUDITOR-S07, VALID-LINKS-S15, VALID-RUN-S01, VALID-RUN-
 5. Запізнілий перегляд іншої сцени: перегляд першої сцени затримано на 1,5 с, автор тим часом відкриває другу; панель показує кількість викликів другої сцени.
 6. Налаштування твору без рядка Ревізора: форма Ревізора має нотатку «Поки Ревізора не збережено, він бере модель редактора.», модель редактора й редактори промптів перевірки завдання й пам’яті; збереження створює власний рядок, і нотатка зникає.
 7. Після збереження іншої моделі редактора похідна форма Ревізора показує нову модель; збереження Ревізора з іншою температурою проходить без конфлікту й створює власний рядок.
+8. Зупинена перевірка чекає автора (VALID-RUN-S13): фікстура `/test-scene-audit?memory=true` (пам'ять сцени вже узгоджена, перегляд — 2 виклики), запуск зупиняється на розбіжності завдання, автор через API затверджує прозу. Рядок запуску пише «Чекає вашого рішення: завдання ↔ план» і «Викликів: 1 / 1…», «Продовжити» в `#run-actions` неактивна з «Спершу вирішіть зв’язок «завдання ↔ план» у панелі «Узгодженість сцени»». «Розбіжності немає» в рядку завдання панелі змінює крок на «Усе вирішено: перевірку можна завершити», а кнопку — на «Завершити перевірку»; її натискання не відкриває діалогу, і запуск стає `completed`.
+9. Сцена без пам'яті: завдання й прозу затверджено через API, перевірка зупиняється на недоступній пам'яті без виклику; рядок пише «Чекає вашої дії: пам'ять ↔ проза», а «Продовжити» неактивна з причиною, що називає цей зв'язок.
 Запуск: `cd frontend; ./node_modules/.bin/playwright test -c playwright.config.mjs ../tests/web/browser/scene-audit.spec.mjs` з абсолютним `PYTHONPATH=<робоча копія>/src`. Цей зв’язок не є доказом виконання; фактичний запуск фіксується окремо.
 
 <a id="book-validation-browser"></a>
@@ -576,7 +578,7 @@ VALID-RUN-S08, VALID-UI-S01, VALID-UI-S02, VALID-UI-S03, VALID-UI-S04, VALID-UI-
 2. Повторне натискання й «Почати валідацію»: запуск `audit` з `audit_scope: 'story'` стає `needs_review`. Кнопка «Перейти до сцени 1» відкриває сцену «Ранок», де рядок завдання панелі «Узгодженість сцени» показує розбіжність «Місце дії не збігається з планом», а фокус стоїть на `#scene-consistency`. Головна дія панелі — «Продовжити валідацію», неактивна з «Спершу вирішіть зв’язок». «Розбіжності немає» робить рядок `ok`; кнопка вмикається, «Перевірити Ревізором» немає, а «Продовжити» в `#run-actions` приховане (VALID-UI-S06). «Продовжити валідацію» показує згоду «Сцен до перевірки: 2.», «Підтвердити» доводить запуск до `completed`.
 3. Після завершення кнопка переходу прихована, обидві сцени мають `validity: valid`, а пункт меню — «Книга валідна» й неактивний.
 4. Нова фікстура: відкрити діалог валідації, тоді змінити прозу першої сцени через API й натиснути «Почати валідацію». Діалог показує «План перевірки змінився. Перегляньте його ще раз» з кнопкою «Переглянути знову», запусків немає. «Переглянути знову» відкриває свіжий перегляд «Сцен до перевірки: 2.», а «Скасувати» лишає чергу порожньою.
-5. Прогрес запуску з вкладки (R20-WORKSPACE-S10): після «Почати валідацію» рядок запуску розгорнуто (`#run-status` має клас `expanded`), заголовок `.run-progress-title` читає «Валідація книги: перевірено сцен 1 з 2 · «Ранок»», крок `.run-progress-step` — «завдання ↔ план», лічильник — «Викликів: 1 / 4…», `progress.run-progress-bar` має `value` 0.25, а фокус стоїть на заголовку й переживає перемальовування `queued` → `running` → `needs_review`. «Скасувати валідацію» показано посиланням (`link-button`), а «Перейти до сцени 1» — не `secondary`.
+5. Прогрес запуску з вкладки (R20-WORKSPACE-S10): після «Почати валідацію» рядок запуску розгорнуто (`#run-status` має клас `expanded`), заголовок `.run-progress-title` читає «Валідація книги: перевірено сцен 1 з 2 · «Ранок»», крок `.run-progress-step` після зупинки — «Чекає вашого рішення: завдання ↔ план» (VALID-RUN-S13), лічильник — «Викликів: 1 / 4…», `progress.run-progress-bar` має `value` 0.25, а фокус стоїть на заголовку й переживає перемальовування `queued` → `running` → `needs_review`. «Скасувати валідацію» показано посиланням (`link-button`), а «Перейти до сцени 1» — не `secondary`.
 6. Пункт меню після зупинки (VALID-UI-S05): з фокусом у редакторі (`.rich-text-surface .ProseMirror`) меню показує «Валідацію зупинено: показати», клік переносить фокус на заголовок прогресу й не ставить нового запуску (`GET …/runs` має один запуск). Після `reload` рядок зупиненого запуску розгорнуто, але заголовок фокуса не отримує; після «Перейти до сцени 1» фокус отримує `#scene-consistency` сцени зупинки.
 7. Продовження з вкладки (Р2): після рішення автора «Продовжити валідацію» в панелі перераховує план («Валідація книги: перевірено сцен 2 з 2 · «Вечір»», «Викликів: n / 4»), а фокус знову стоїть на заголовку прогресу.
 8. Інший активний запуск (VALID-UI-S05, Final(core) рішення 2): фікстура `/test-book-validation?slow_planner=true` додає планувальника `synthetic-slow`, чий етап `brief` триває до скасування. Валідація книги через API стає `needs_review`, далі етап `brief` другої сцени стає `running`. Після відкриття сторінки рядок показує «Сцена 1 з 1, етап: завдання»; пункт меню «Валідацію зупинено: показати» неактивний із підказкою «Рядок запуску зайнятий іншим запуском: дочекайтеся його завершення», а подія `run-reveal` із запуском книги рядка не змінює. Після скасування етапу пункт активний без підказки, клік показує «Валідація книги: перевірено сцен 1 з 2 · «Ранок»» з фокусом на заголовку, запусків два.

diff --git a/docs/site/uk/troubleshooting.md b/docs/site/uk/troubleshooting.md
@@ -34,6 +34,7 @@
 | «Сцену змінювали під час перевірки кілька разів поспіль» | Ревізор тричі поспіль дав висновок для сцени, яку тим часом змінили. Закінчіть правки й знову натисніть **Перевірити Ревізором**. |
 | «План перевірки змінився. Перегляньте його ще раз» | Між переглядом і запуском перевірки щось змінилося: ви затвердили зв’язок або змінили текст, змінили модель чи ліміти Ревізора. Натисніть **Переглянути знову** (для сцени — **Перевірити Ревізором** ще раз) і погодьтеся на новий план. |
 | Під кнопкою **Перевірити Ревізором** написано «Ревізору нема що перевіряти: вирішіть зв’язки вручну» | Кожен зв’язок, що лишився, чекає вашого рішення чи іншої дії, а не моделі: Ревізор уже знайшов у ньому розбіжність, або зв’язок не можна перевірити без пам’яті попередньої сцени. Перечитайте рядки з **!** у панелі «Узгодженість сцени» й натисніть **Розбіжності немає** або виправте текст на вкладці етапу; для рядків із **—** виконайте дію, яку пропонує рядок; якщо перевірка сцени зупинена, далі натисніть **Продовжити** в рядку стану. |
+| **Продовжити** в рядку стану неактивна з підказкою «Спершу вирішіть зв’язок «…» у панелі «Узгодженість сцени»» | Зупинена перевірка одразу зупинилася б на цьому зв’язку знову, не викликаючи моделі. Вирішіть його в панелі (**Розбіжності немає**, виправлення тексту або дія, яку пропонує рядок); коли перевіряти більше нічого, кнопка стане **Завершити перевірку**. |
 | **Продовжити валідацію** неактивна з підказкою «Спершу вирішіть зв’язок» | Валідація книги чекає вашого рішення для зв’язку, на якому зупинилася. Перечитайте рядок із розбіжністю в панелі «Узгодженість сцени» й натисніть **Розбіжності немає** (для пам’яті — **Залишити попередню пам’ять** чи **Створити нову пам’ять**) або змініть текст; після цього кнопка стане активною. Якщо **Продовжити валідацію** неактивна з «Рядок запуску зайнятий іншим запуском…», дочекайтеся кінця того запуску. |
 | Діалог перевірки пише «Суму не пораховано: …» або не показує суми | Для локальної моделі суми немає. Для хмарної моделі збережіть чинну ціну: **Оновити з каталогу** чи ручний тариф ([бюджет викликів](models.md#бюджет-викликів)). Сума — верхня межа за повними лімітами Ревізора, тож справжня вартість зазвичай значно менша. |
 | Пункт «Книга валідна» неактивний, хоча сцени не дописані | Лічильник рахує сцени, де є хоча б один зв’язок «Не перевірено», «Розбіжність» чи «Недоступно», зокрема сцену лише із завданням, чиє завдання не перевірене. Якщо пункт показує «Книга валідна», перевіряти нічого: сцена без завдання й прози не має зв’язків до перевірки, її допишіть самі. |

diff --git a/docs/site/uk/workspace.md b/docs/site/uk/workspace.md
@@ -85,7 +85,9 @@
 
 - Якщо Ревізор упевнений щонайменше на 90% і не знайшов розбіжностей, зв’язок стає чинним, і перевірка йде до наступного.
 - Інакше перевірка зупиняється, а рядок зв’язку в панелі отримує значок ! і текст «Ревізор: можлива розбіжність (упевненість у відповідності — N%)» з підсумком, списком розбіжностей і цитатами. Пояснення моделі бувають неточними: вона може помітити, що щось не так, але назвати не те. Перечитайте сцену самі.
-- Якщо все гаразд, натисніть у рядку **Розбіжності немає** (для пам’яті — **Залишити попередню пам’ять**); якщо ні — виправте текст на вкладці етапу або натисніть **Створити нову пам’ять**. Потім натисніть **Продовжити** в рядку стану, щоб перевірити решту зв’язків. Продовження без вашого рішення знову зупиниться на тій самій розбіжності, не викликаючи моделі.
+- Якщо все гаразд, натисніть у рядку **Розбіжності немає** (для пам’яті — **Залишити попередню пам’ять**); якщо ні — виправте текст на вкладці етапу або натисніть **Створити нову пам’ять**. Потім натисніть **Продовжити** в рядку стану, щоб перевірити решту зв’язків.
+- Поки зупинена перевірка чекає вас, рядок стану пише «Чекає вашого рішення: завдання ↔ план» (для зв’язку без пам’яті — «Чекає вашої дії: …»), а **Продовжити** неактивна з підказкою, який зв’язок вирішити спершу. Смуга й «Викликів: n / N» рахують лише те, що лишилося перевірити, тож зв’язки, які ви затвердили самі, з плану зникають.
+- Якщо після ваших рішень перевіряти більше нічого, рядок пише «Усе вирішено: перевірку можна завершити», а кнопка називається **Завершити перевірку**. Вона закриває перевірку одразу, без діалогу: Ревізор не викликається й нічого не коштує.
 - Якщо Ревізор не зміг перевірити зв’язок, рядок пояснює чому. Коли вхід перевищує ліміт Ревізора, посилання **Відкрити налаштування Ревізора** веде до його налаштувань; збільште ліміт і запустіть перевірку знову. Затвердити такий зв’язок не можна.
 - Зв’язок, який не можна перевірити без пам’яті (немає пам’яті попередньої сцени, пам’ять переноситься), зупиняє перевірку без виклику моделі; дії для нього описано вище.
 
